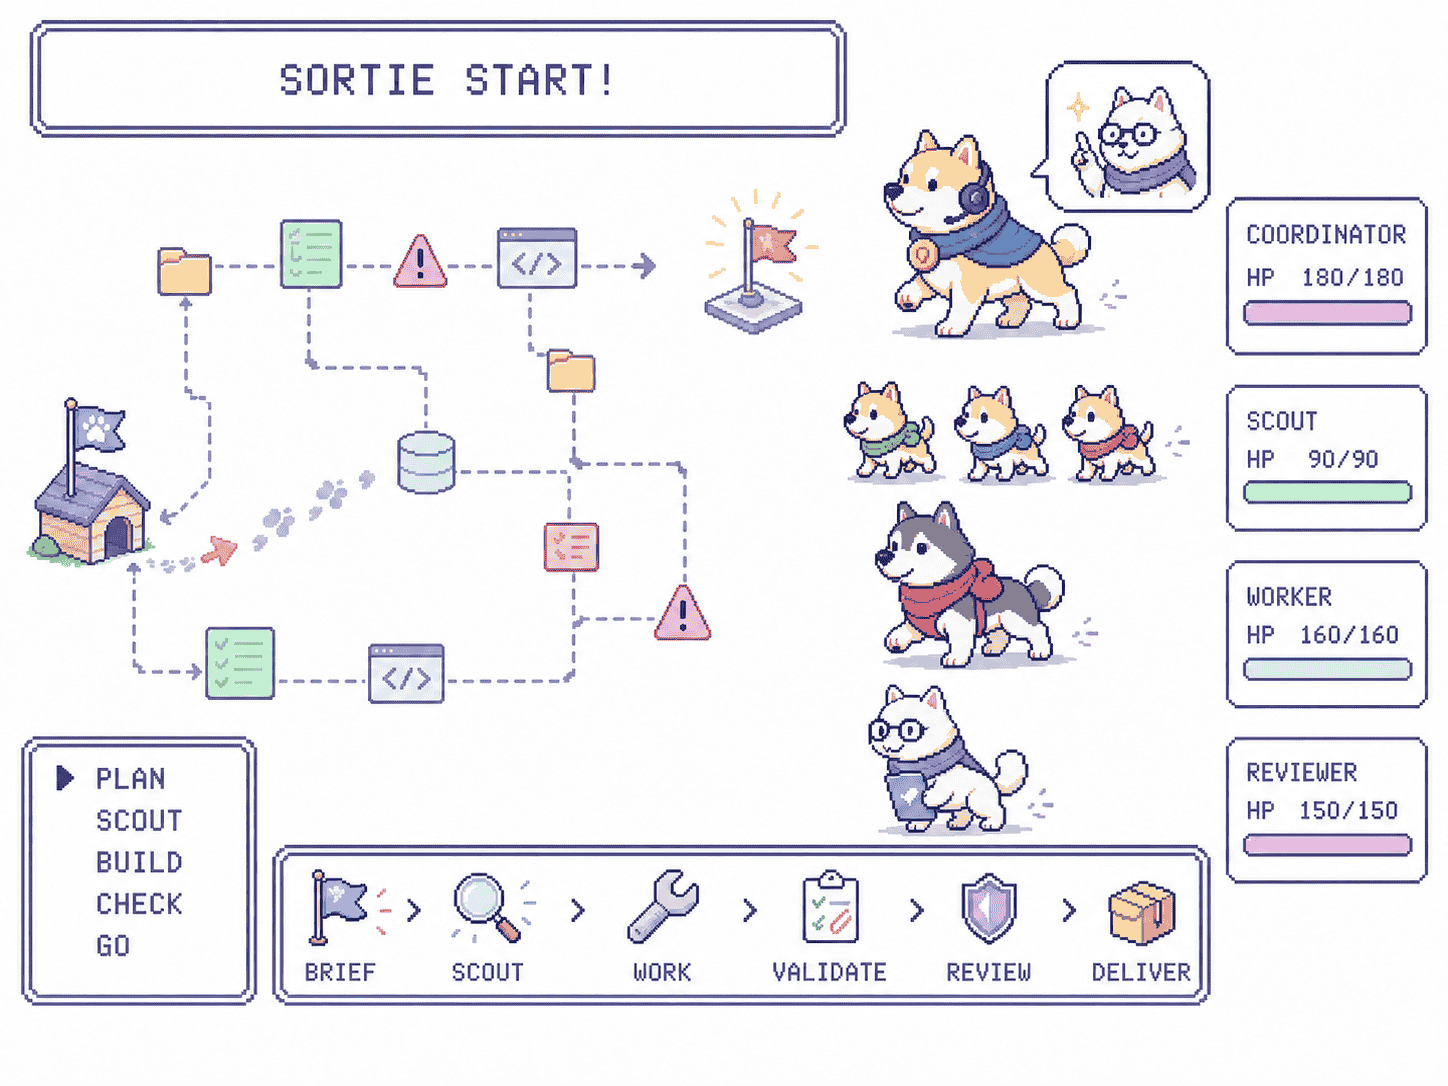
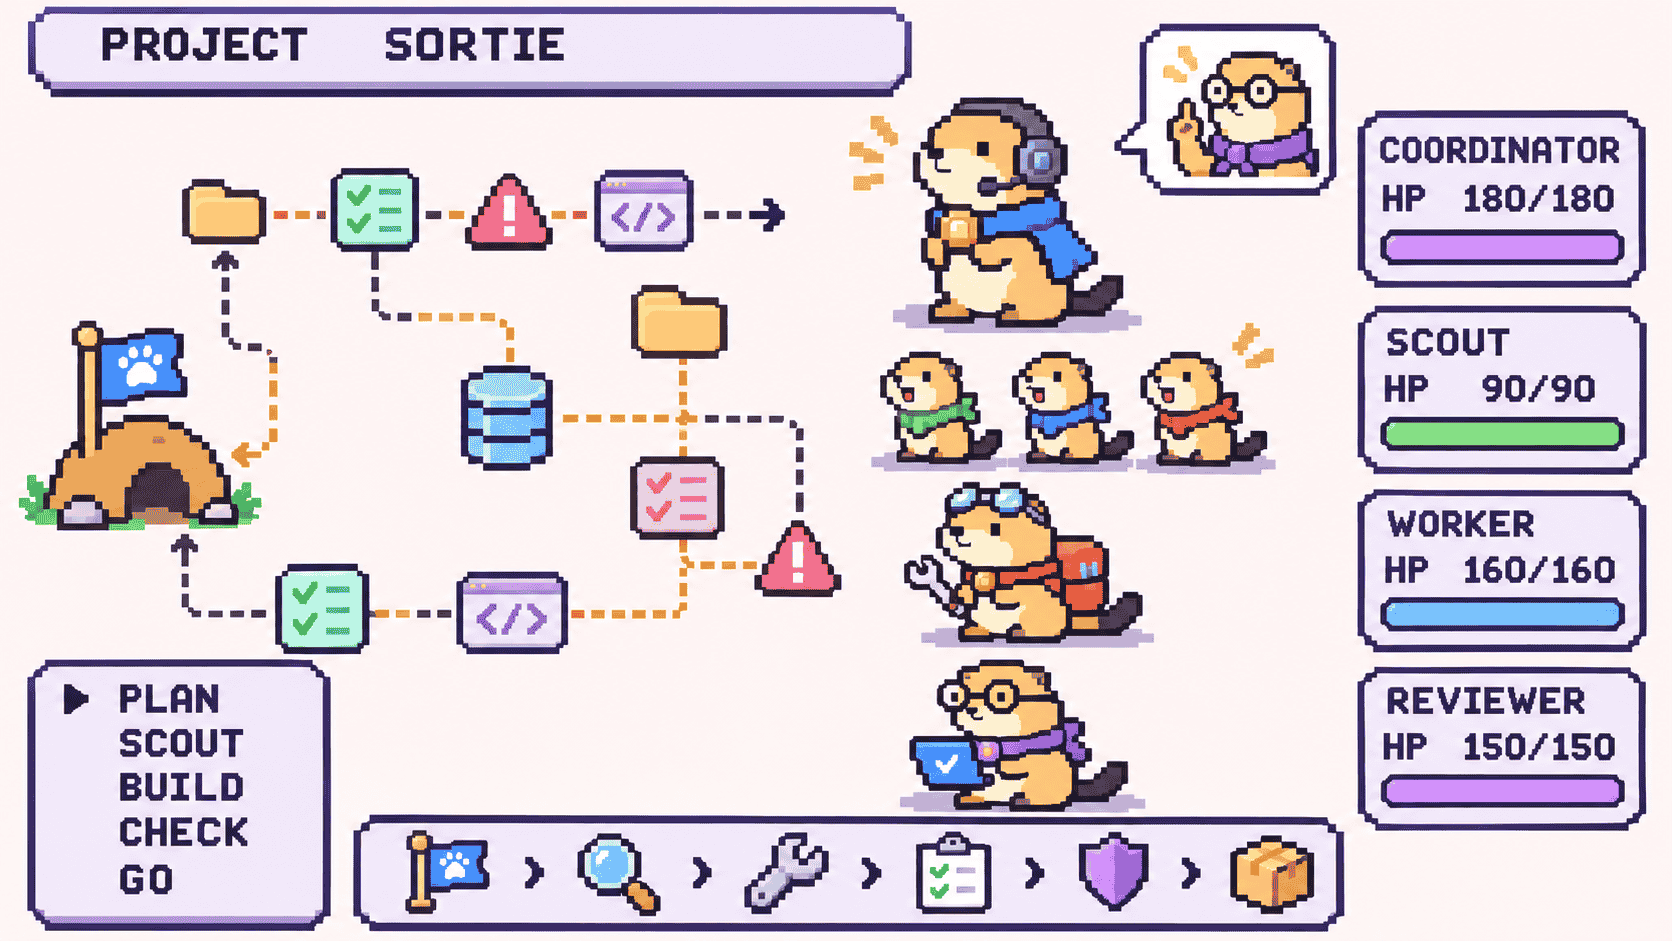
docs: refresh README with supplied prairie-dog artwork (#348)

diff --git a/README.md b/README.md
@@ -1,7 +1,7 @@
 # Sortie-dogs
 
 <p align="center">
-  <img src="docs/assets/sortie-dogs-logo.png" alt="Sortie-dogs logo" width="640">
+  <img src="docs/assets/sortie-dogs-logo.jpg" alt="Sortie-dogs logo" width="640">
 </p>
 
 **An adaptive execution harness for OpenCode and Codex: preserve the goal,
@@ -30,7 +30,7 @@ evidence-backed result, not more agents for their own sake.
 > implemented; Codex Missions have completed implementation, validation, correction and acceptance.
 > [Host-specific execution boundaries](docs/codex.md#native-permissions-and-approval) remain explicit.
 
-![Sortie-dogs coordinating a bounded implementation workflow](https://raw.githubusercontent.com/zufall-upon/Sortie-dogs/main/docs/assets/sortie-workflow.gif)
+![Sortie-dogs coordinating a bounded implementation workflow](docs/assets/sortie-workflow.png)
 
 ## Why Sortie
 
